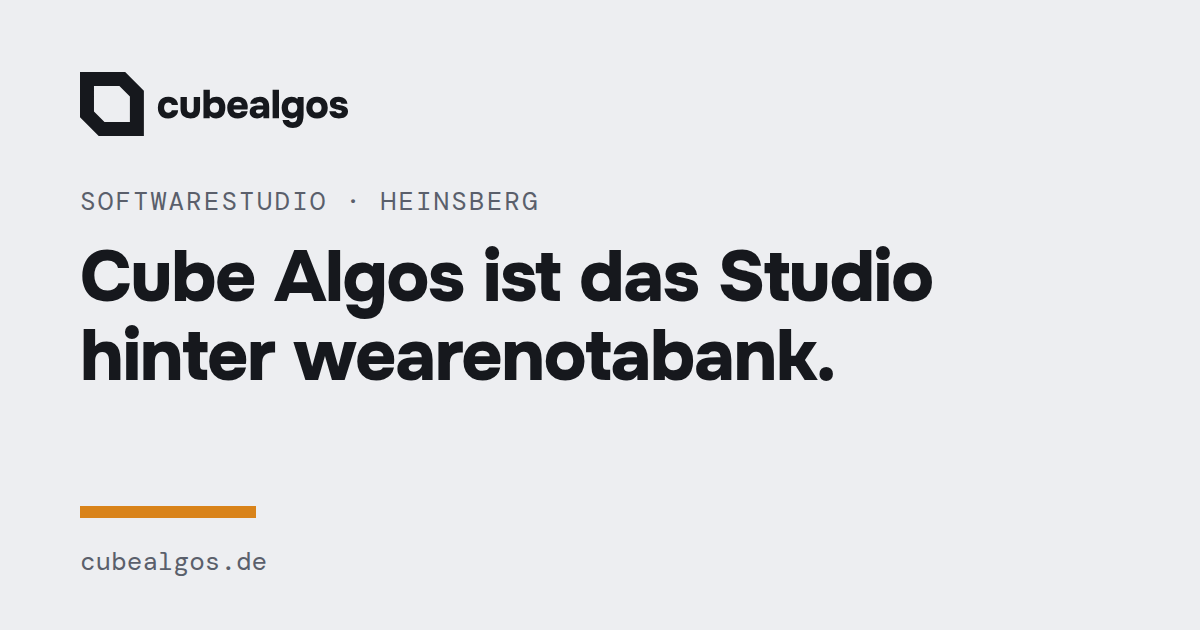
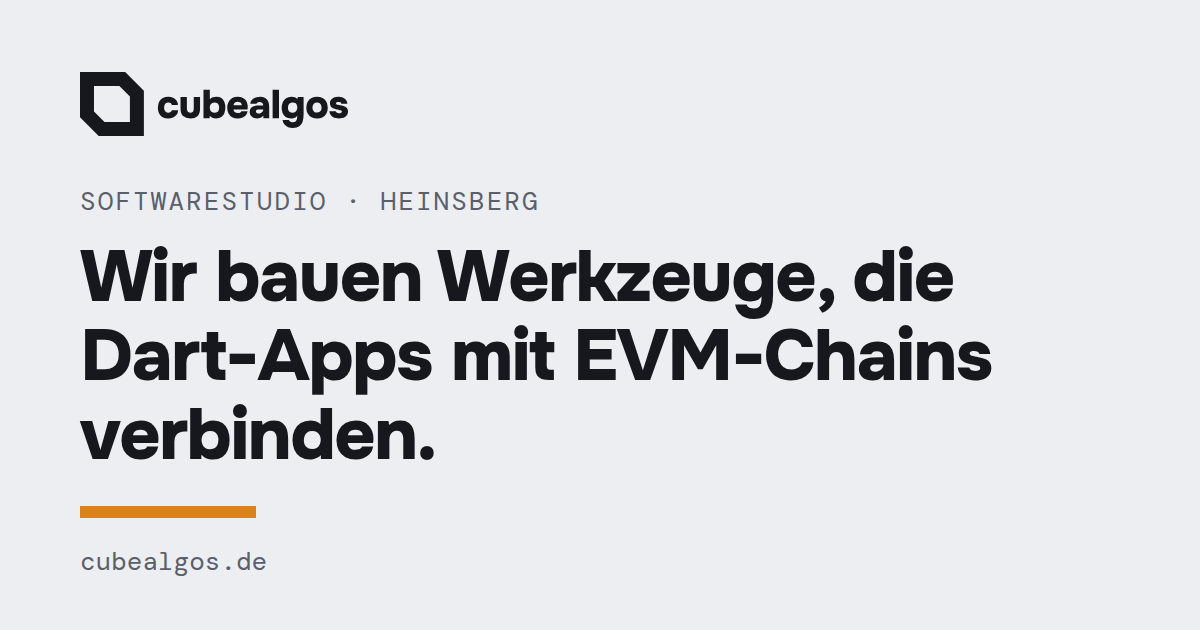
feat(copy): Home H1 and paragraph as Dart trifft EVM (#102)
The H1 says what the studio builds and for whom: tools that connect Dart
apps to EVM chains, with the drawn underline on the Dart apps. The
paragraph names wearenotabank next to its object (SDKs, libraries, smart
contracts; DEC-082 D3), never as the actor (D10), and viem_dart as an
independent port of viem to pure Dart (regulatory edit E-C-6), then the
founding facts.

The unnamed state keeps the previous paragraph as ledeUnnamed, so it
still names no product. viem_dart joins the never-hyphenated words. The
page meta H1 and the share images follow; title, meta description and
JSON-LD are unchanged.

Changed region(s): [[0.0617, 0.3921, 0.8325, 0.754]]

diff --git a/lib/src/copy/home_copy.dart b/lib/src/copy/home_copy.dart
@@ -2,14 +2,16 @@
 
 /// The home page copy, EN and DE side by side: the business card, layout B
 /// "Steckbrief" (brand decisions 56, 58 and 59; copy direction C of the
-/// reframe of 2026-10-29 with the regulatory edits E-C-2 and E-C-3; all rights
-/// reserved). Components render it, tests compare the built pages against it.
-/// The copy says what the studio is and makes, offers no client work, names
-/// no price and describes no software beyond wearenotabank.
+/// reframe of 2026-10-29 with the regulatory edits E-C-2 and E-C-3, and the
+/// H1 and paragraph of copy direction 2 "Dart trifft EVM" of 2026-10-30; all
+/// rights reserved). Components render it, tests compare the built pages
+/// against it. The copy says what the studio is and makes, offers no client
+/// work, names no price and describes no software beyond wearenotabank.
 ///
-/// The page exists in two states ([namesProduct]): named, with the H1 "Cube
-/// Algos is the studio behind wearenotabank." and the button to its GitHub
-/// organisation, and unnamed, with `h1Unnamed` (copy section 3.5) and the
+/// The page exists in two states ([namesProduct]): named, with the H1 "We
+/// build tools that connect Dart apps to EVM chains.", a paragraph that names
+/// wearenotabank and viem_dart, and the button to its GitHub organisation;
+/// and unnamed, with `h1Unnamed` (copy section 3.5), `ledeUnnamed` and the
 /// button to the contact page. Everything that differs is a field here.
 library;
 
@@ -27,17 +29,24 @@ String headlineText(Headline h) => '${h.pre}${h.mark}${h.post}';
 typedef HomeCopy = ({
   String eyebrow,
 
-  /// The H1 of the named state ([namesProduct]); the mark is the whole word
-  /// `wearenotabank`.
+  /// The H1 of the named state ([namesProduct]); the mark is the whole
+  /// phrase for the reader's side, the Dart apps.
   Headline h1,
 
   /// The H1 of the unnamed state (copy section 3.5).
   Headline h1Unnamed,
 
-  /// The paragraph under the H1, directly, at every width: it names the
-  /// object (developer tools: smart contracts, SDKs, libraries) so that the
-  /// name never meets a reader alone (regulatory edits E-C-2 and E-C-3).
+  /// The paragraph under the H1 in the named state, directly, at every
+  /// width: it names wearenotabank next to its object (SDKs, libraries,
+  /// smart contracts), so that the name never meets a reader alone
+  /// (wearenotabank `DEC-082` D3, regulatory edit E-C-3), never makes the
+  /// name the actor (D10), and calls viem_dart an independent port, never an
+  /// official viem release (regulatory edit E-C-6).
   String lede,
+
+  /// The paragraph of the unnamed state: the object line of regulatory edit
+  /// E-C-2, without the product's name.
+  String ledeUnnamed,
 
   /// The product's name as the Produkt row shows it: always the whole word,
   /// in lower case (wearenotabank `DEC-082` D2).
@@ -64,9 +73,9 @@ const Map<Lang, HomeCopy> homeCopy = {
   Lang.en: (
     eyebrow: 'Software studio · Heinsberg',
     h1: (
-      pre: 'Cube Algos is the studio behind ',
-      mark: 'wearenotabank',
-      post: '.',
+      pre: 'We build tools that connect ',
+      mark: 'Dart apps',
+      post: ' to EVM chains.',
     ),
     h1Unnamed: (
       pre: 'We build ',
@@ -74,6 +83,11 @@ const Map<Lang, HomeCopy> homeCopy = {
       post: ' software for EVM chains.',
     ),
     lede:
+        'Under the name wearenotabank we make SDKs, libraries and smart '
+        'contracts, among them viem_dart, an independent port of viem to pure '
+        'Dart. Kevin Scheeren founded the studio in Heinsberg in 2023 and runs '
+        'it as managing director.',
+    ledeUnnamed:
         'We make developer tools: smart contracts, SDKs and libraries for EVM '
         'chains, with a focus on Dart. Kevin Scheeren founded the studio in '
         'Heinsberg in 2023 and runs it as managing director.',
@@ -90,9 +104,9 @@ const Map<Lang, HomeCopy> homeCopy = {
   Lang.de: (
     eyebrow: 'Softwarestudio · Heinsberg',
     h1: (
-      pre: 'Cube Algos ist das Studio hinter ',
-      mark: 'wearenotabank',
-      post: '.',
+      pre: 'Wir bauen Werkzeuge, die ',
+      mark: 'Dart-Apps',
+      post: ' mit EVM-Chains verbinden.',
     ),
     h1Unnamed: (
       pre: 'Wir bauen ',
@@ -100,6 +114,11 @@ const Map<Lang, HomeCopy> homeCopy = {
       post: ' Software für EVM-Chains.',
     ),
     lede:
+        'Unter dem Namen wearenotabank entstehen SDKs, Bibliotheken und Smart '
+        'Contracts, darunter viem_dart, eine unabhängige Portierung von viem '
+        'in reines Dart. Gegründet hat das Studio Kevin Scheeren 2023 in '
+        'Heinsberg; er führt es als Geschäftsführer.',
+    ledeUnnamed:
         'Wir bauen Werkzeuge für die Softwareentwicklung: Smart Contracts, '
         'SDKs und Bibliotheken für EVM-Chains, mit Schwerpunkt auf Dart. '
         'Gegründet hat das Studio Kevin Scheeren 2023 in Heinsberg; er führt '
@@ -119,3 +138,7 @@ const Map<Lang, HomeCopy> homeCopy = {
 /// The headline of [lang] in the state in which the site [named] the product.
 Headline homeHeadline(Lang lang, {bool named = namesProduct}) =>
     named ? homeCopy[lang]!.h1 : homeCopy[lang]!.h1Unnamed;
+
+/// The paragraph of [lang] in the state in which the site [named] the product.
+String homeLede(Lang lang, {bool named = namesProduct}) =>
+    named ? homeCopy[lang]!.lede : homeCopy[lang]!.ledeUnnamed;

diff --git a/test/brand_name_test.dart b/test/brand_name_test.dart
@@ -15,6 +15,7 @@ import 'dart:io';
 
 import 'package:test/test.dart';
 import 'package:website/src/content/site_content.dart';
+import 'package:website/src/copy/home_copy.dart';
 import 'package:website/src/routes.dart';
 import 'package:website/src/widgets.dart';
 
@@ -134,7 +135,17 @@ void main() {
         ).allMatches(html))
           m[1],
       ];
-      expect(marks, ['wearenotabank'], reason: lang.code);
+      // The H1 marks the Dart apps; a mark that touched the name would have
+      // to cover the whole word.
+      expect(marks, [homeCopy[lang]!.h1.mark], reason: lang.code);
+      for (final mark in marks) {
+        expect(
+          mark == 'wearenotabank' ||
+              !mark!.toLowerCase().contains(RegExp('bank|notab')),
+          isTrue,
+          reason: '${lang.code}: "$mark"',
+        );
+      }
     }
     // No element wraps a part of the word either: the scan of every file
     // above reports a name split by a tag as a spelling or a loose "bank".
@@ -164,32 +175,27 @@ void main() {
     );
   });
 
-  test(
-    'every wearenotabank and Kevin Scheeren is wrapped, none hyphenated',
-    () {
-      final hits = <String>[];
-      var wrapped = 0;
-      for (final f in _textFiles().where((f) => f.path.endsWith('.html'))) {
-        final html = f.readAsStringSync();
-        hits.addAll(unwrappedTerms(html).map((t) => '${f.path}: $t'));
-        wrapped += RegExp('class="(mark )?nohy"').allMatches(html).length;
-      }
-      expect(hits, isEmpty);
-      // Home (both languages) and Contact carry the name several times, the
-      // Impressum and Home the founder's name.
-      expect(wrapped, greaterThanOrEqualTo(12));
-      final css = File('$_buildDir/site.css').readAsStringSync();
-      expect(
-        RegExp(r'\.nohy\s*\{[^}]*\bhyphens:\s*none').hasMatch(css),
-        isTrue,
-      );
-    },
-  );
+  test('every wearenotabank, viem_dart and Kevin Scheeren is wrapped, none '
+      'hyphenated', () {
+    final hits = <String>[];
+    var wrapped = 0;
+    for (final f in _textFiles().where((f) => f.path.endsWith('.html'))) {
+      final html = f.readAsStringSync();
+      hits.addAll(unwrappedTerms(html).map((t) => '${f.path}: $t'));
+      wrapped += RegExp('class="(mark )?nohy"').allMatches(html).length;
+    }
+    expect(hits, isEmpty);
+    // Home (both languages) and Contact carry the name several times, the
+    // Impressum and Home the founder's name.
+    expect(wrapped, greaterThanOrEqualTo(12));
+    final css = File('$_buildDir/site.css').readAsStringSync();
+    expect(RegExp(r'\.nohy\s*\{[^}]*\bhyphens:\s*none').hasMatch(css), isTrue);
+  });
 
   test('noHyphen wraps the words and leaves the rest as text', () {
-    expect(noHyphenTerms, ['wearenotabank', 'Kevin Scheeren']);
-    final parts = noHyphen('Hi wearenotabank, Kevin Scheeren.');
-    expect(parts, hasLength(5));
+    expect(noHyphenTerms, ['wearenotabank', 'viem_dart', 'Kevin Scheeren']);
+    final parts = noHyphen('Hi wearenotabank, viem_dart, Kevin Scheeren.');
+    expect(parts, hasLength(7));
     expect(noHyphen('nothing to wrap'), hasLength(1));
     expect(noHyphen(''), isEmpty);
   });
@@ -213,7 +219,8 @@ void main() {
       // The first paragraph, directly under the H1, names it too.
       final paragraph = mainBlocks(html)[2];
       expect(paragraph, matches(object[lang]!), reason: lang.code);
-      expect(paragraph, isNot(contains('wearenotabank')));
+      // The name sits in the same paragraph as its object.
+      expect(paragraph, contains('wearenotabank'));
       // And so does the title's neighbour: the eyebrow names the studio kind.
       expect(
         mainBlocks(html).first,

diff --git a/test/home_copy_test.dart b/test/home_copy_test.dart
@@ -78,7 +78,7 @@ void main() {
         expect(html, isNot(contains('<base')));
       });
 
-      test('the H1 underlines the whole word wearenotabank, nothing else', () {
+      test('the H1 underlines the Dart apps, nothing else', () {
         final h1 = RegExp(
           '<h1[^>]*>(.*?)</h1>',
           dotAll: true,
@@ -87,7 +87,13 @@ void main() {
           RegExp('<span class="mark nohy">(.*?)</span>')
               .allMatches(h1[1]!)
               .map((m) => m[1]),
-          ['wearenotabank'],
+          [if (lang == Lang.de) 'Dart-Apps' else 'Dart apps'],
+        );
+        expect(
+          headlineText(homeCopy[lang]!.h1),
+          lang == Lang.de
+              ? 'Wir bauen Werkzeuge, die Dart-Apps mit EVM-Chains verbinden.'
+              : 'We build tools that connect Dart apps to EVM chains.',
         );
       });
 
@@ -165,18 +171,39 @@ void main() {
 
       test('the paragraph names the object, directly under the H1', () {
         final c = homeCopy[lang]!;
-        // E-C-2: the first sentence says what is made, in plain words.
+        // D3: the first sentence puts the name next to what is made; D10: the
+        // name is never the actor; E-C-6: viem_dart is an independent port.
         expect(
           c.lede,
           startsWith(
             lang == Lang.de
-                ? 'Wir bauen Werkzeuge für die Softwareentwicklung: Smart '
-                      'Contracts, SDKs und Bibliotheken für EVM-Chains, mit '
-                      'Schwerpunkt auf Dart.'
-                : 'We make developer tools: smart contracts, SDKs and '
-                      'libraries for EVM chains, with a focus on Dart.',
+                ? 'Unter dem Namen wearenotabank entstehen SDKs, Bibliotheken '
+                      'und Smart Contracts, darunter viem_dart, eine '
+                      'unabhängige Portierung von viem in reines Dart.'
+                : 'Under the name wearenotabank we make SDKs, libraries and '
+                      'smart contracts, among them viem_dart, an independent '
+                      'port of viem to pure Dart.',
           ),
         );
+        // The names in it are never hyphenated by the browser.
+        expect(
+          html,
+          contains(
+            lang == Lang.de
+                ? 'Unter dem Namen <span class="nohy">wearenotabank</span> '
+                      'entstehen'
+                : 'Under the name <span class="nohy">wearenotabank</span> we '
+                      'make',
+          ),
+        );
+        expect(
+          html,
+          contains(
+            '<span class="nohy">viem_dart</span>, '
+            '${lang == Lang.de ? 'eine unabhängige' : 'an independent'}',
+          ),
+        );
+        expect(html, contains('<span class="nohy">Kevin Scheeren</span>'));
         // E-C-3: nothing sits between the H1 and the paragraph, on any width.
         final between = RegExp(
           '</h1>(.*?)<p class="bc-lede',

diff --git a/test/product_state_test.dart b/test/product_state_test.dart
@@ -50,8 +50,16 @@ void main() {
 
       test('the H1, the button and the Produkt row name the product', () {
         final c = homeCopy[lang]!;
-        expect(html, contains(headlineText(c.h1).split('wearenotabank').first));
-        expect(html, contains('<span class="mark nohy">wearenotabank</span>'));
+        expect(
+          html,
+          contains(
+            '${c.h1.pre}<span class="mark nohy">${c.h1.mark}</span>'
+            '${c.h1.post}',
+          ),
+        );
+        expect(html, contains('<span class="nohy">wearenotabank</span>'));
+        expect(html, contains('<span class="nohy">viem_dart</span>'));
+        expect(_text(html), contains(c.lede));
         expect(html, contains('href="$wearenotabankOrgUrl"'));
         expect('class="btn"'.allMatches(html), hasLength(1));
         expect('<dt>'.allMatches(html), hasLength(5));
@@ -97,8 +105,10 @@ void main() {
         expect(home, isNot(contains('class="ext"')));
         expect(home, isNot(matches(_brand)));
         expect(home, isNot(contains(wearenotabankOrgUrl)));
-        // The paragraph does not name it and stays as it is.
-        expect(_text(home), contains(c.lede));
+        // The paragraph names neither the product nor its library.
+        expect(_text(home), contains(c.ledeUnnamed));
+        expect(_text(home), isNot(contains(c.lede)));
+        expect(home, isNot(contains('viem_dart')));
       });
 
       test(

diff --git a/lib/src/page_meta.dart b/lib/src/page_meta.dart
@@ -27,7 +27,7 @@ const Map<PageKey, Map<Lang, PageMeta>> pageMeta = {
           'Cube Algos is the software studio behind wearenotabank: smart '
           'contracts, SDKs and Dart libraries for EVM chains. In Heinsberg, '
           'Germany, since 2023.',
-      h1: 'Cube Algos is the studio behind wearenotabank.',
+      h1: 'We build tools that connect Dart apps to EVM chains.',
     ),
     Lang.de: (
       title: 'Cube Algos UG | Softwarestudio in Heinsberg',
@@ -35,7 +35,7 @@ const Map<PageKey, Map<Lang, PageMeta>> pageMeta = {
           'Cube Algos ist das Softwarestudio hinter wearenotabank: Smart '
           'Contracts, SDKs und Dart-Bibliotheken für EVM-Chains. Seit 2023 in '
           'Heinsberg.',
-      h1: 'Cube Algos ist das Studio hinter wearenotabank.',
+      h1: 'Wir bauen Werkzeuge, die Dart-Apps mit EVM-Chains verbinden.',
     ),
   },
   PageKey.contact: {

diff --git a/lib/src/widgets.dart b/lib/src/widgets.dart
@@ -53,9 +53,9 @@ class BackLink extends StatelessComponent {
 Component t(String value) => Component.text(value);
 
 /// The words that must never be split by the browser's automatic hyphenation:
-/// the product's name (wearenotabank `DEC-082` D2: "bank" is never set apart)
-/// and the founder's name.
-const noHyphenTerms = ['wearenotabank', 'Kevin Scheeren'];
+/// the product's name (wearenotabank `DEC-082` D2: "bank" is never set apart),
+/// its library viem_dart and the founder's name.
+const noHyphenTerms = ['wearenotabank', 'viem_dart', 'Kevin Scheeren'];
 
 final _noHyphen = RegExp(noHyphenTerms.map(RegExp.escape).join('|'));
 

diff --git a/lib/src/pages/home_page.dart b/lib/src/pages/home_page.dart
@@ -74,7 +74,7 @@ class HomePage extends StatelessComponent {
       p(
         classes: 'bc-lede rise',
         attributes: const {'data-i': '2'},
-        noHyphen(c.lede),
+        noHyphen(homeLede(lang, named: productNamed)),
       ),
       el(
         'div',

diff --git a/CHANGELOG.md b/CHANGELOG.md
@@ -2,6 +2,7 @@
 
 ## Unreleased
 
+- **Home H1 and paragraph, copy direction 2 "Dart trifft EVM"**, EN and DE: H1 „Wir bauen Werkzeuge, die **Dart-Apps** mit EVM-Chains verbinden." / "We build tools that connect **Dart apps** to EVM chains." (the drawn underline on „Dart-Apps" / "Dart apps"), and the paragraph „Unter dem Namen wearenotabank entstehen SDKs, Bibliotheken und Smart Contracts, darunter viem_dart, eine unabhängige Portierung von viem in reines Dart. Gegründet hat das Studio Kevin Scheeren 2023 in Heinsberg; er führt es als Geschäftsführer." / "Under the name wearenotabank we make SDKs, libraries and smart contracts, among them viem_dart, an independent port of viem to pure Dart. Kevin Scheeren founded the studio in Heinsberg in 2023 and runs it as managing director." (regulatory edit E-C-6: an independent port, not an official viem release). The name sits next to its object in the paragraph (`DEC-082` D3) and is never the actor (D10); the unnamed state keeps the previous paragraph as `ledeUnnamed`, so it still names no product. `viem_dart` joins the never-hyphenated words (`span.nohy`). The home H1 in the page meta and the share images (`og-de.png`, `og-en.png`) follow; title, meta description and JSON-LD are unchanged (#102).
 - **The site is one screen: a business card, layout B "Steckbrief"** (brand decisions 58 and 59; copy direction C of the reframe of 2026-10-29 with the regulatory edits E-C-1 to E-C-4), EN and DE. Home is the statement on the left (eyebrow „Softwarestudio · Heinsberg", H1 „Cube Algos ist das Studio hinter **wearenotabank**." / "Cube Algos is the studio behind **wearenotabank**.", a paragraph that names the object, „Wir bauen Werkzeuge für die Softwareentwicklung: Smart Contracts, SDKs und Bibliotheken für EVM-Chains, mit Schwerpunkt auf Dart." / "We make developer tools: ...", one amber button „wearenotabank auf GitHub" / "wearenotabank on GitHub" and the text link „Schreiben Sie uns" / "Write to us") and a fact sheet on the right (Anbieter, Registereintrag, Produkt, Kontakt and the newest post, with the Impressum link under it; the sting stays in its head). The page names wearenotabank and links `https://github.com/wearenotabank`, the first link of the allow-list in `lib/src/outbound.dart`, under wearenotabank `DEC-082` (D1 to D10); `namesProduct` is the one switch: with it off Home reads „Wir bauen eigene Software für EVM-Chains." / "We build our own software for EVM chains.", its button leads to Contact, the Produkt row, the Contact topics and the structured data lose the name, and no built file carries the name or the link (both states are tested). The title and description (E-C-1), the `Organization` JSON-LD with a `Brand` and its description (E-C-4) and the two share images (the eyebrow above the H1, E-C-3) follow. Tests: the name only as the lower-case word `wearenotabank`, an emphasis on the whole word, the object word in the meta description and the first paragraph, no banking vocabulary or currency sign (#97).
 - **About folds into Home and Works is removed.** `/ueber/` and `/en/about/` are built as redirect pages to the home page of their language (refresh, canonical, `noindex`; `docs/redirects.md` has the `301` rule the server needs); the works template (data files, index, work page, rooms, the generated cover), the studio band, the stack card, the blog teaser, the closing panel and the founder's portrait and links are gone, with their copy, tests and the CSS that had no markup left. Contact (copy section 4.2) names wearenotabank in its description and three topics and no longer mentions client projects at all (decision 56). The header lists Blog and Kontakt (the logo is the way home), the footer has the legal links, the address and LinkedIn in one row and no tagline, no repeated navigation and no second language switch. `.btn` no longer hyphenates its label ("Git-Hub" at 320 px) (#97).
 - The product's name and the founder's name are never hyphenated by the browser: every occurrence (H1, paragraph, button, fact sheet, Contact topics, the Impressum) sits in a `span.nohy` (`hyphens: none`); the rest of the text keeps its automatic hyphenation. A test over every built page fails on an unwrapped or split occurrence (#97).
